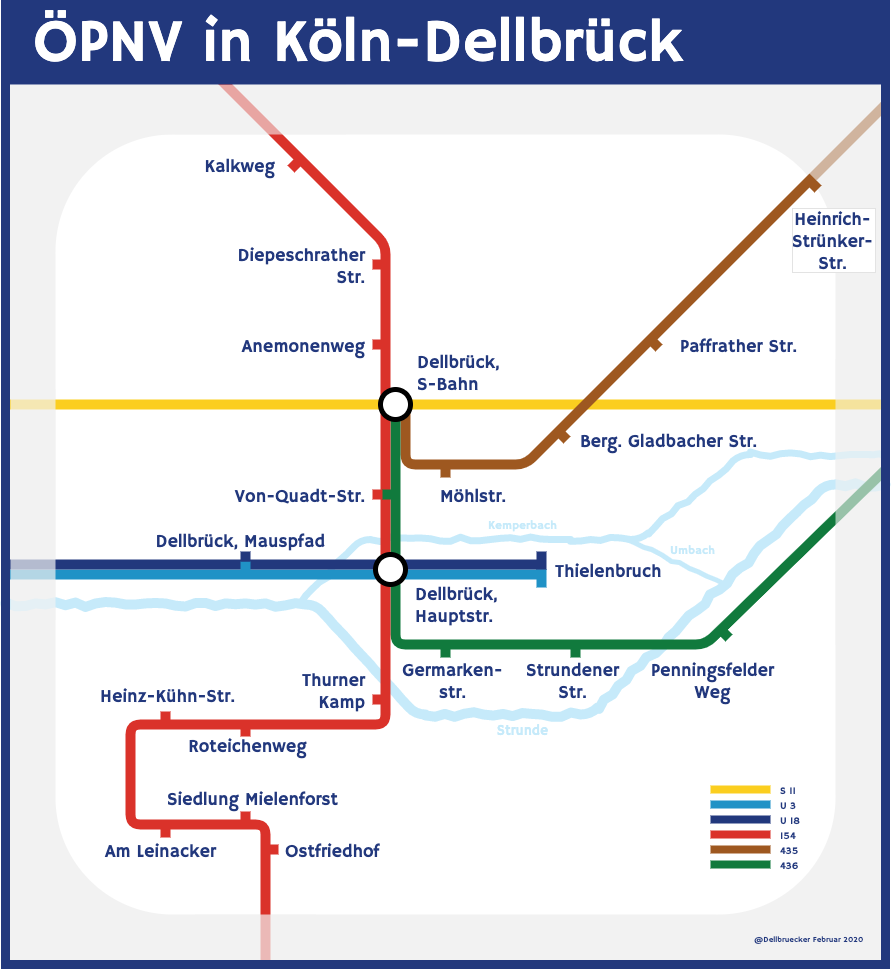
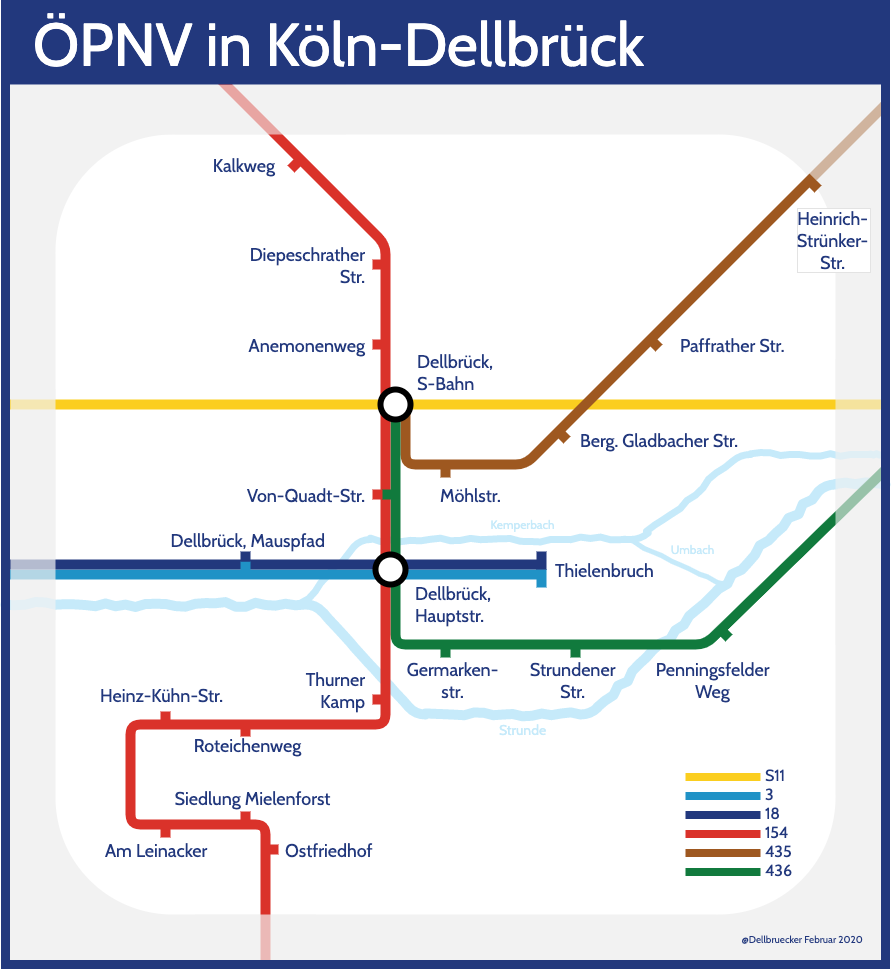
change font to cabin change font to cabin change font to cabin
change font to cabin
change font to cabin

diff --git a/Readme.md b/Readme.md
@@ -8,7 +8,7 @@ kleines Projekt zum Ausprobieren verschiedener Möglichkeiten, per draw.io eine 
 
 ## Vorlagen
 
-Als Schriftart wird Hammersmith One verwendet, welche als freie Schriftart an die original Schriftart erinnert.
+Als Schriftart wird Cabin verwendet, welche als freie Schriftart an die original Schriftart erinnert.
 
 Die Farben stammen aus der TubeMap:
 
@@ -33,4 +33,4 @@ Die nächste Skizze ist eine weiter reduzierte Version (fast ein Kunstwerk)
 - https://www.draw.io/
 - https://tfl.gov.uk/maps/track/tube
 - http://www.xn--pnvkarte-m4a.de/#7.0746;50.9736;15
-- https://fonts.google.com/specimen/Hammersmith+One
+- https://fonts.google.com/specimen/Cabin
